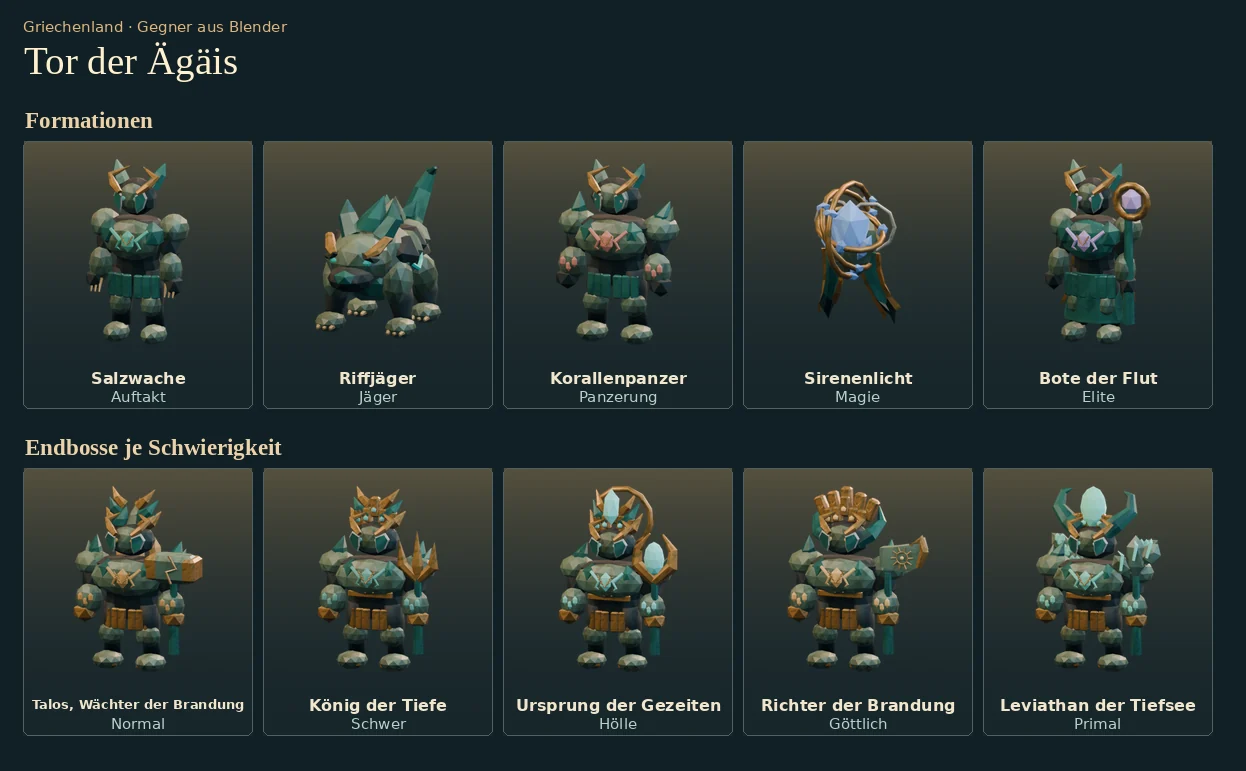
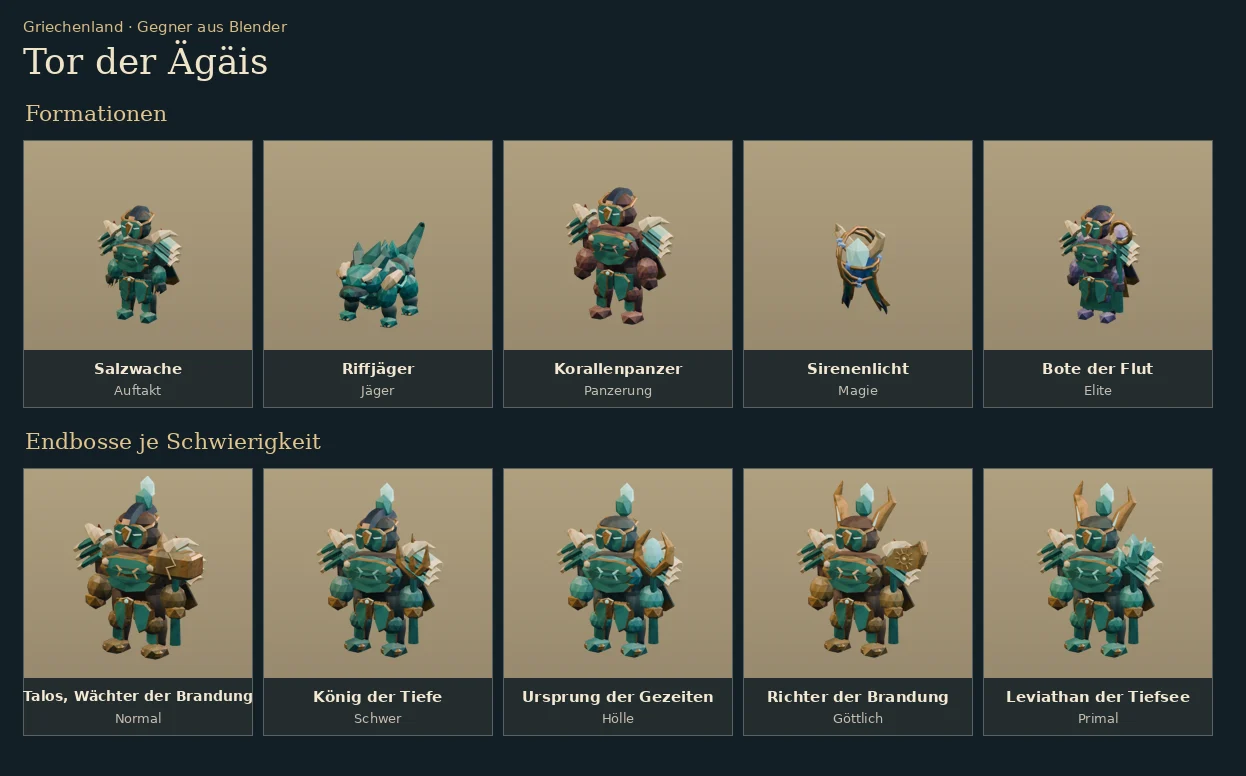
Refresh the enemy review sheets for the coloured formations
Claude-Session: https://claude.ai/code/session_01UiFqM7fXDUjeA8KXHvcyT4

diff --git a/art/reviews/feldzug/README.md b/art/reviews/feldzug/README.md
@@ -8,6 +8,8 @@ und eine eigene Ausstattung. [Freigegebene Stilreferenz](../../references/thekla
 Truppen und Helden haben kompakte Proportionen mit größerem Kopf und kürzeren
 Beinen, damit sie auf dem Handy auf einen Blick lesbar bleiben. Truppen tragen
 ihre Katalogfarbe als Stofffarbe. Thekla und Marcus behalten ihre eigene Anatomie.
+Gegner tragen eine gesättigte, abgedunkelte Fassung ihrer Katalogfarbe; die
+Gegnerübersichten zeigen sie vor dem hellen Stein des Rundkurses.
 
 | Schauplatz | Truppen, Helden und Gebäude | Formationen und Endbosse |
 | --- | --- | --- |
